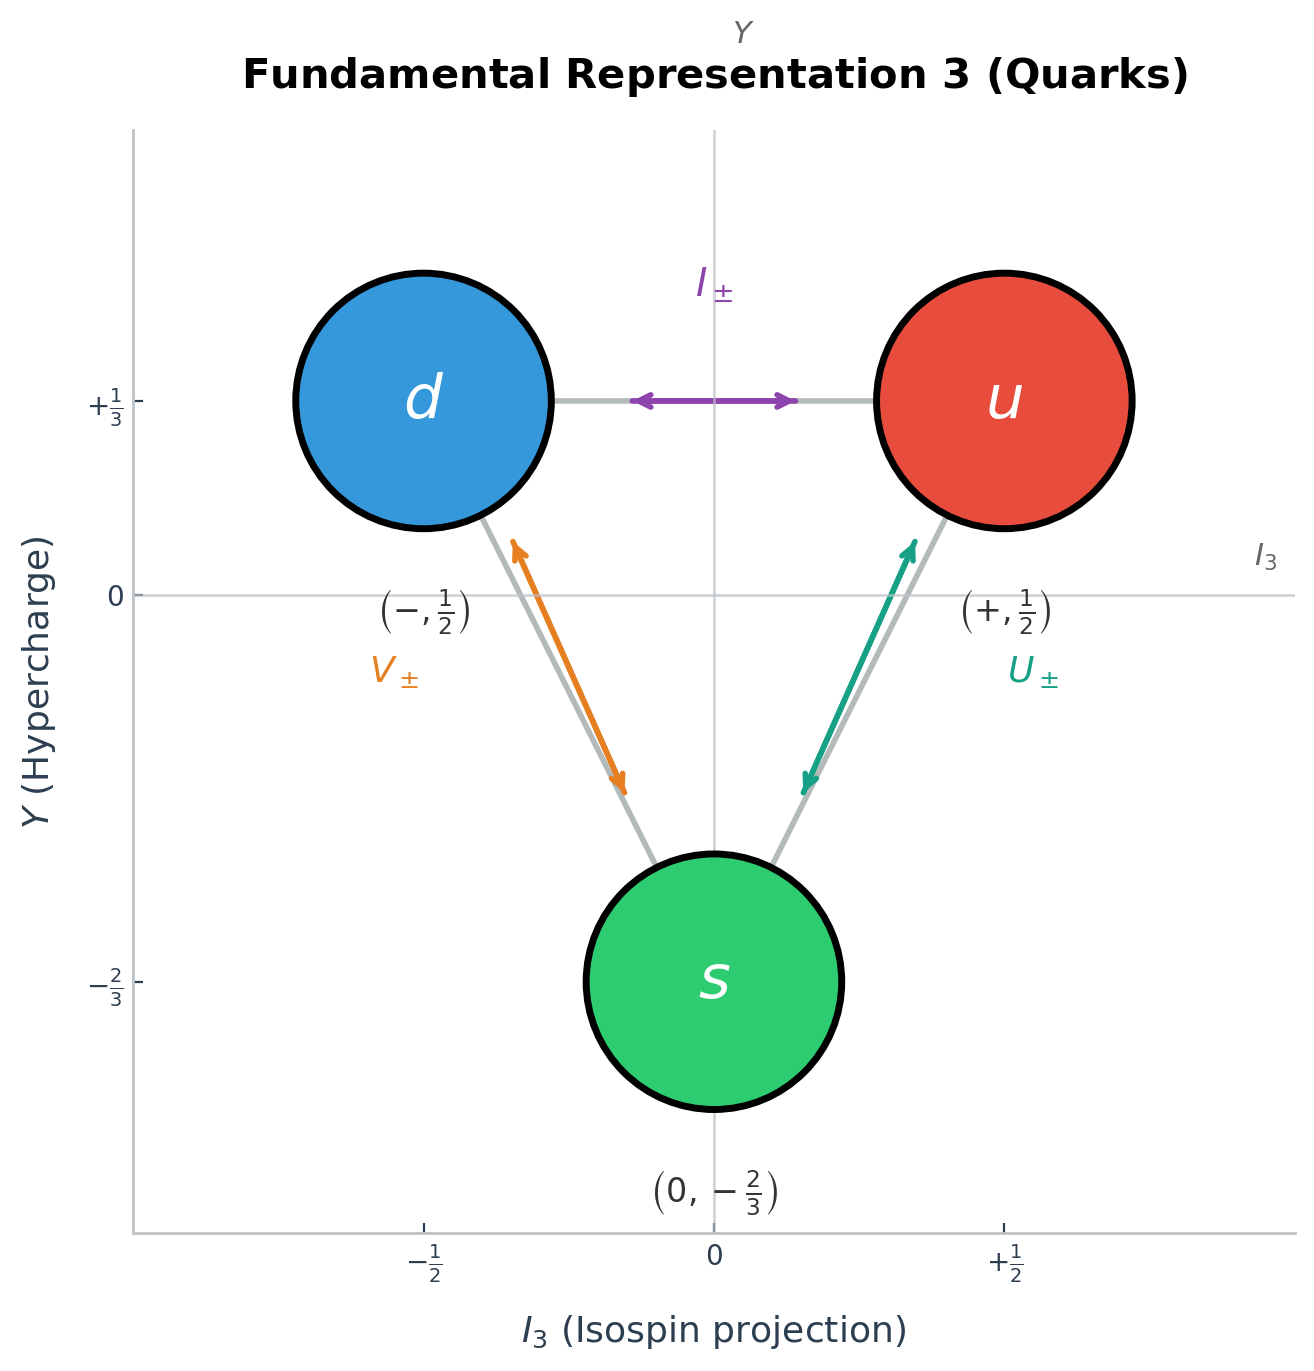
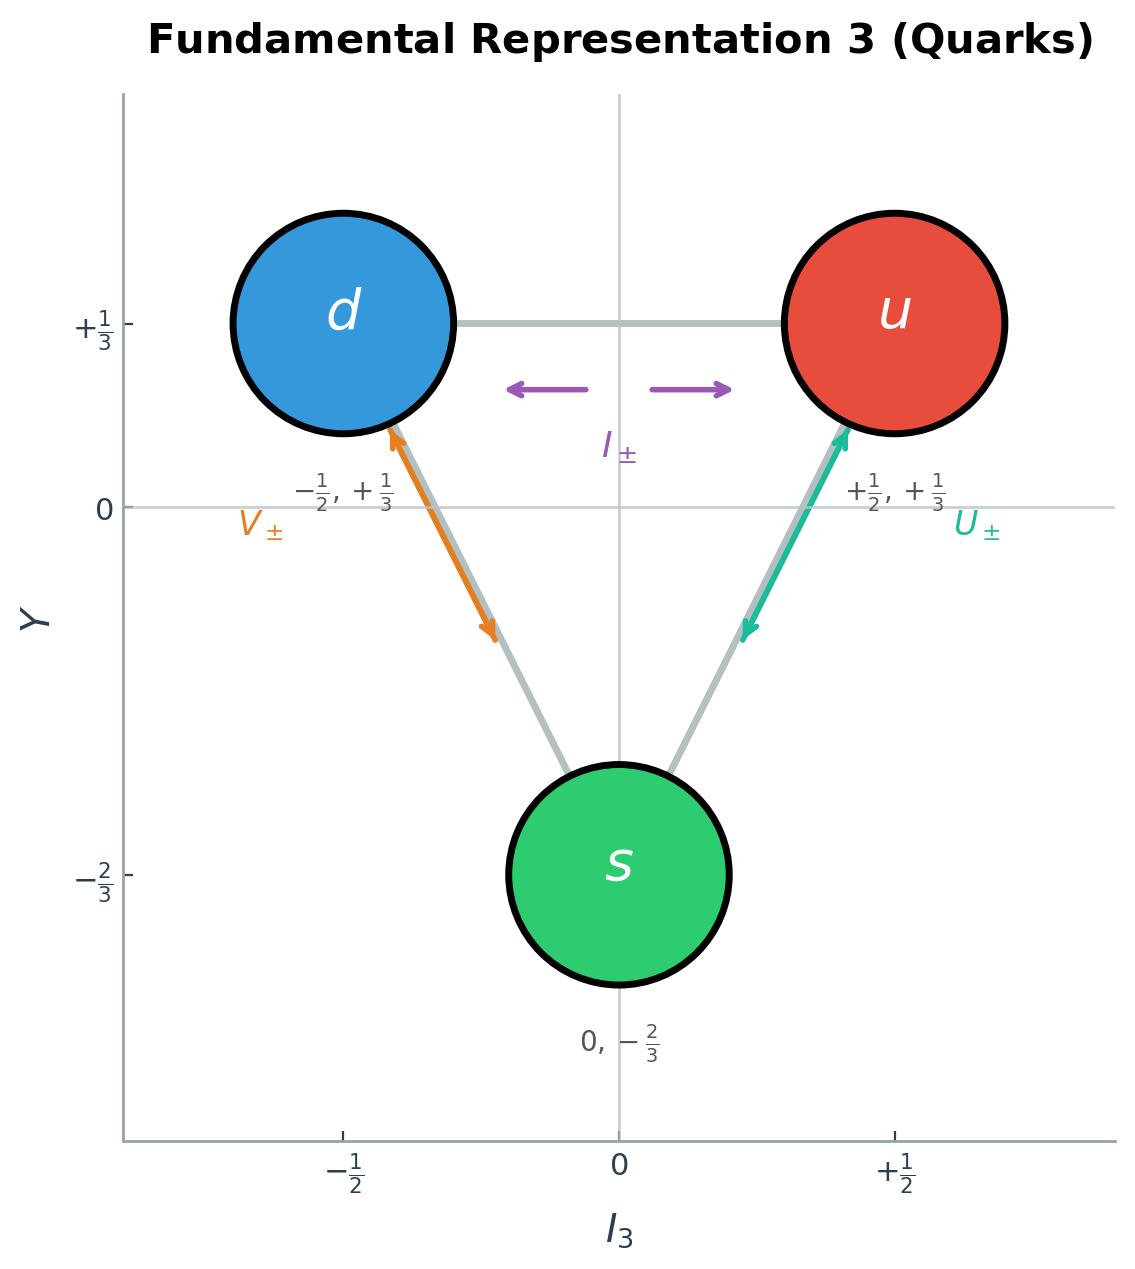
Improve SU(3) fundamental diagram: better ladder operator labels and coordinate positioning

diff --git a/utils/generate_su3_fundamental.py b/utils/generate_su3_fundamental.py
@@ -1,6 +1,6 @@
 #!/usr/bin/env python3
 """
-Generate SU(3) Fundamental Representation (Quark Triplet) - Professional Version
+Generate SU(3) Fundamental Representation (Quark Triplet) - Clean Professional Version
 """
 
 import matplotlib.pyplot as plt
@@ -15,137 +15,123 @@ from plot_style import setup_style
 OUTPUT_DIR = 'docs/images/angular-momentum'
 
 
-def draw_fundamental_triplet_professional():
-    """Draw professional quark triplet weight diagram."""
+def draw_fundamental_triplet():
+    """Draw clean quark triplet weight diagram."""
     setup_style()
     
-    # Use a clean, professional figure size
-    fig, ax = plt.subplots(figsize=(8, 7))
+    fig, ax = plt.subplots(figsize=(7.5, 6.5))
     
-    # Define exact positions
+    # Define positions
     u_pos = np.array([0.5, 1/3])
     d_pos = np.array([-0.5, 1/3])
     s_pos = np.array([0, -2/3])
     
-    # Colors - using clean, distinct colors
-    u_color = '#E74C3C'  # Red for u
-    d_color = '#3498DB'  # Blue for d
-    s_color = '#2ECC71'  # Green for s
+    # Colors
+    u_color = '#E74C3C'
+    d_color = '#3498DB'
+    s_color = '#2ECC71'
     
-    # ===== DRAW CONNECTION LINES FIRST (behind circles) =====
-    # Triangle outline
+    # ===== DRAW TRIANGLE OUTLINE =====
     triangle = plt.Polygon([u_pos, d_pos, s_pos], 
                           fill=False, 
-                          edgecolor='#7F8C8D', 
-                          linewidth=2, 
-                          alpha=0.6,
+                          edgecolor='#95A5A6', 
+                          linewidth=2.5, 
+                          alpha=0.7,
                           zorder=1)
     ax.add_patch(triangle)
     
     # ===== DRAW LADDER OPERATOR ARROWS =====
-    arrow_style = dict(arrowstyle='->', color='#8E44AD', lw=2.5, 
-                      connectionstyle='arc3,rad=0')
+    # I+/- : horizontal between u and d - place arrows below the line
+    arrow_y = 1/3 - 0.12
+    # Double-headed arrow effect
+    ax.annotate('', xy=(0.22, arrow_y), xytext=(0.05, arrow_y),
+               arrowprops=dict(arrowstyle='->', color='#9B59B6', lw=2), zorder=2)
+    ax.annotate('', xy=(-0.22, arrow_y), xytext=(-0.05, arrow_y),
+               arrowprops=dict(arrowstyle='->', color='#9B59B6', lw=2), zorder=2)
+    # Label below arrows
+    ax.text(0, arrow_y - 0.12, r'$I_\pm$', fontsize=13, ha='center', 
+           color='#9B59B6', fontweight='bold')
     
-    # I+/- : horizontal arrows between u and d
-    # Bidirectional arrow with labels
-    arrow_y = 1/3
-    # Left arrow (I-)
-    ax.annotate('', xy=(-0.15, arrow_y), xytext=(0.15, arrow_y),
-               arrowprops=dict(arrowstyle='->', color='#8E44AD', lw=2), zorder=2)
-    # Right arrow (I+)
-    ax.annotate('', xy=(0.15, arrow_y), xytext=(-0.15, arrow_y),
-               arrowprops=dict(arrowstyle='->', color='#8E44AD', lw=2), zorder=2)
-    # Label above
-    ax.text(0, arrow_y + 0.18, r'$I_\pm$', fontsize=14, ha='center', 
-           color='#8E44AD', fontweight='bold')
-    
-    # V+/- : arrows from d to s (left side)
-    # Direction: d (-0.5, 1/3) to s (0, -2/3)
-    ax.annotate('', xy=(-0.15, -0.35), xytext=(-0.35, 0.1),
+    # V+/- : left side arrows (d to s) - place outside triangle
+    # Start from left of d, go down-right toward s
+    ax.annotate('', xy=(-0.22, -0.25), xytext=(-0.42, 0.15),
                arrowprops=dict(arrowstyle='->', color='#E67E22', lw=2), zorder=2)
-    ax.annotate('', xy=(-0.35, 0.1), xytext=(-0.15, -0.35),
+    ax.annotate('', xy=(-0.42, 0.15), xytext=(-0.22, -0.25),
                arrowprops=dict(arrowstyle='->', color='#E67E22', lw=2), zorder=2)
-    ax.text(-0.55, -0.15, r'$V_\pm$', fontsize=13, ha='center', 
-           color='#E67E22', fontweight='bold',
-           bbox=dict(boxstyle='round,pad=0.2', facecolor='white', 
-                    edgecolor='none', alpha=0.9))
+    # Label to the left
+    ax.text(-0.65, -0.05, r'$V_\pm$', fontsize=12, ha='center', 
+           color='#E67E22', fontweight='bold')
     
-    # U+/- : arrows from u to s (right side)
-    # Direction: u (0.5, 1/3) to s (0, -2/3)
-    ax.annotate('', xy=(0.15, -0.35), xytext=(0.35, 0.1),
-               arrowprops=dict(arrowstyle='->', color='#16A085', lw=2), zorder=2)
-    ax.annotate('', xy=(0.35, 0.1), xytext=(0.15, -0.35),
-               arrowprops=dict(arrowstyle='->', color='#16A085', lw=2), zorder=2)
-    ax.text(0.55, -0.15, r'$U_\pm$', fontsize=13, ha='center', 
-           color='#16A085', fontweight='bold',
-           bbox=dict(boxstyle='round,pad=0.2', facecolor='white', 
-                    edgecolor='none', alpha=0.9))
+    # U+/- : right side arrows (u to s) - place outside triangle
+    ax.annotate('', xy=(0.22, -0.25), xytext=(0.42, 0.15),
+               arrowprops=dict(arrowstyle='->', color='#1ABC9C', lw=2), zorder=2)
+    ax.annotate('', xy=(0.42, 0.15), xytext=(0.22, -0.25),
+               arrowprops=dict(arrowstyle='->', color='#1ABC9C', lw=2), zorder=2)
+    # Label to the right
+    ax.text(0.65, -0.05, r'$U_\pm$', fontsize=12, ha='center', 
+           color='#1ABC9C', fontweight='bold')
     
     # ===== DRAW QUARK CIRCLES =====
-    circle_radius = 0.22
+    circle_radius = 0.20
     
     # u quark
     u_circle = plt.Circle(u_pos, circle_radius, facecolor=u_color, 
                          edgecolor='black', linewidth=2.5, zorder=10)
     ax.add_patch(u_circle)
-    ax.text(u_pos[0], u_pos[1], r'$u$', fontsize=22, ha='center', va='center',
+    ax.text(u_pos[0], u_pos[1] + 0.02, r'$u$', fontsize=20, ha='center', va='center',
            color='white', fontweight='bold', zorder=11)
+    # I3,Y label below
+    ax.text(u_pos[0], u_pos[1] - 0.32, r'$+\frac{1}{2}, +\frac{1}{3}$', 
+           fontsize=10, ha='center', color='#555')
     
     # d quark
     d_circle = plt.Circle(d_pos, circle_radius, facecolor=d_color, 
                          edgecolor='black', linewidth=2.5, zorder=10)
     ax.add_patch(d_circle)
-    ax.text(d_pos[0], d_pos[1], r'$d$', fontsize=22, ha='center', va='center',
+    ax.text(d_pos[0], d_pos[1] + 0.02, r'$d$', fontsize=20, ha='center', va='center',
            color='white', fontweight='bold', zorder=11)
+    # I3,Y label below
+    ax.text(d_pos[0], d_pos[1] - 0.32, r'$-\frac{1}{2}, +\frac{1}{3}$', 
+           fontsize=10, ha='center', color='#555')
     
     # s quark
     s_circle = plt.Circle(s_pos, circle_radius, facecolor=s_color, 
                          edgecolor='black', linewidth=2.5, zorder=10)
     ax.add_patch(s_circle)
-    ax.text(s_pos[0], s_pos[1], r'$s$', fontsize=22, ha='center', va='center',
+    ax.text(s_pos[0], s_pos[1] + 0.02, r'$s$', fontsize=20, ha='center', va='center',
            color='white', fontweight='bold', zorder=11)
-    
-    # ===== QUANTUM NUMBER LABELS =====
-    # Below each quark
-    ax.text(u_pos[0], u_pos[1] - 0.38, 
-           r'$\left(+,\frac{1}{2}\right)$', fontsize=12, ha='center', color='#333')
-    ax.text(d_pos[0], d_pos[1] - 0.38, 
-           r'$\left(-,\frac{1}{2}\right)$', fontsize=12, ha='center', color='#333')
-    ax.text(s_pos[0], s_pos[1] - 0.38, 
-           r'$\left(0,-\frac{2}{3}\right)$', fontsize=12, ha='center', color='#333')
-    
-    # Small labels for I3 and Y
-    ax.text(0.95, 0.05, r'$I_3$', fontsize=11, ha='center', color='#666')
-    ax.text(0.05, 0.95, r'$Y$', fontsize=11, ha='center', color='#666')
+    # I3,Y label below
+    ax.text(s_pos[0], s_pos[1] - 0.32, r'$0, -\frac{2}{3}$', 
+           fontsize=10, ha='center', color='#555')
     
     # ===== AXES SETUP =====
-    ax.set_xlabel(r'$I_3$ (Isospin projection)', fontsize=13, labelpad=10)
-    ax.set_ylabel(r'$Y$ (Hypercharge)', fontsize=13, labelpad=10)
+    ax.set_xlabel(r'$I_3$', fontsize=14, labelpad=5)
+    ax.set_ylabel(r'$Y$', fontsize=14, labelpad=5)
     
-    # Light gray axes
-    ax.axhline(y=0, color='#BDC3C7', linewidth=1, linestyle='-', alpha=0.7)
-    ax.axvline(x=0, color='#BDC3C7', linewidth=1, linestyle='-', alpha=0.7)
+    # Light axes
+    ax.axhline(y=0, color='#BDC3C7', linewidth=1, alpha=0.8)
+    ax.axvline(x=0, color='#BDC3C7', linewidth=1, alpha=0.8)
     
-    # Ticks
+    # Set ticks
     ax.set_xticks([-0.5, 0, 0.5])
-    ax.set_xticklabels([r'$-\frac{1}{2}$', r'$0$', r'$+\frac{1}{2}$'])
+    ax.set_xticklabels([r'$-\frac{1}{2}$', r'$0$', r'$+\frac{1}{2}$'], fontsize=11)
     ax.set_yticks([-2/3, 0, 1/3])
-    ax.set_yticklabels([r'$-\frac{2}{3}$', r'$0$', r'$+\frac{1}{3}$'])
+    ax.set_yticklabels([r'$-\frac{2}{3}$', r'$0$', r'$+\frac{1}{3}$'], fontsize=11)
     
     # Aspect and limits
     ax.set_aspect('equal')
-    ax.set_xlim(-1.0, 1.0)
-    ax.set_ylim(-1.1, 0.8)
+    ax.set_xlim(-0.9, 0.9)
+    ax.set_ylim(-1.15, 0.75)
     
     # Title
     ax.set_title(r'Fundamental Representation $\mathbf{3}$ (Quarks)', 
                 fontsize=15, pad=15, fontweight='bold')
     
-    # Remove top and right spines for cleaner look
+    # Clean spines
     ax.spines['top'].set_visible(False)
     ax.spines['right'].set_visible(False)
-    ax.spines['left'].set_color('#BDC3C7')
-    ax.spines['bottom'].set_color('#BDC3C7')
+    ax.spines['left'].set_color('#95A5A6')
+    ax.spines['bottom'].set_color('#95A5A6')
     
     plt.tight_layout()
     filepath = os.path.join(OUTPUT_DIR, 'su3_fundamental_triplet.png')
@@ -156,7 +142,7 @@ def draw_fundamental_triplet_professional():
 
 
 if __name__ == '__main__':
-    print("Generating professional SU(3) fundamental representation...")
+    print("Generating SU(3) fundamental representation...")
     os.makedirs(OUTPUT_DIR, exist_ok=True)
-    draw_fundamental_triplet_professional()
+    draw_fundamental_triplet()
     print("Done!")
